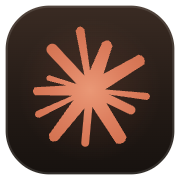
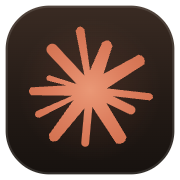
APP 2.4.153：星形动画方向与 3/9 点调整
- 9 点 L6 只外伸、9 点上 P11 只内缩
- 3 点 P7 加长 5% 并加宽中心，9 点 L6 加长 7%
- 图标与手机页同步，ASSET_VERSION 156
- 更新清单 2.4.153（精简包）

diff --git a/overlay/claude-gui/public/m.js b/overlay/claude-gui/public/m.js
@@ -2694,7 +2694,7 @@
   }
 
   // 过程条前的星形头像：和客户端消息头像同一颗星，运行中单独做动画。
-  const PROCESS_STAR_SVG = '<svg class="spark" viewBox="28 28 200 200"><g class="spark-spin"><g transform="rotate(5.0 128 128)"><g stroke="url(#sparkGrad)" stroke-linecap="round"><g class="spark-ray" style="--sray-dur:2.9156s;--sray-delay:-0.2221s;--sray-min:1.2080;--sray-ang:21.00deg"><line x1="128" y1="128" x2="188.43" y2="151.19" stroke-width="12.83"/></g><g class="spark-ray" style="--sray-dur:3.3325s;--sray-delay:-1.7115s;--sray-min:1.0780;--sray-ang:90.21deg;--sray-wide:1.0700"><line x1="128" y1="128" x2="127.72" y2="203.44" stroke-width="11.24"/></g><g class="spark-ray" style="--sray-dur:2.0014s;--sray-delay:-0.5206s;--sray-min:0.9090;--sray-ang:222.02deg;--sray-wide:1.0700"><line x1="128" y1="128" x2="69.54" y2="75.34" stroke-width="16.54"/></g></g><g class="spark-ray" style="--sray-dur:2.5461s;--sray-delay:-2.0861s;--sray-min:1.0260;--sray-ang:-74.22deg;--sray-wide:1.0700"><path d="M 138.78 131.05 L 154.43 62.80 Q 149.89 50.48 139.58 58.60 L 117.22 124.95 Z" fill="url(#sparkGrad)"/></g><g class="spark-ray" style="--sray-dur:3.4067s;--sray-delay:-2.2289s;--sray-min:0.8241;--sray-ang:-35.62deg"><path d="M 134.42 136.96 L 201.99 84.67 Q 203.80 73.69 192.82 71.88 L 121.58 119.04 Z" fill="url(#sparkGrad)"/></g><g class="spark-ray" style="--sray-dur:2.2174s;--sray-delay:-0.7170s;--sray-min:1.1200;--sray-ang:1.50deg;--sray-wide:1.0700"><path d="M 127.94 130.56 L 210.05 135.20 Q 217.75 130.35 210.30 125.10 L 128.06 125.44 Z" fill="url(#sparkGrad)"/></g><g class="spark-ray" style="--sray-dur:3.4198s;--sray-delay:-2.5302s;--sray-min:0.8310;--sray-ang:52.93deg"><path d="M 119.64 134.32 L 171.90 200.59 Q 184.12 202.29 185.83 190.06 L 136.36 121.68 Z" fill="url(#sparkGrad)"/></g><g class="spark-ray" style="--sray-dur:3.2329s;--sray-delay:-1.3367s;--sray-min:0.8960;--sray-ang:122.69deg;--sray-wide:1.0700"><path d="M 118.90 122.16 L 75.48 196.13 Q 75.71 209.48 87.94 204.13 L 137.10 133.84 Z" fill="url(#sparkGrad)"/></g><g class="spark-ray" style="--sray-dur:4.1229s;--sray-delay:-0.6627s;--sray-min:0.7895;--sray-ang:149.85deg"><path d="M 126.71 125.79 L 54.28 164.95 Q 50.24 173.15 59.37 173.72 L 129.29 130.21 Z" fill="url(#sparkGrad)"/></g><g class="spark-ray" style="--sray-dur:2.5755s;--sray-delay:-1.4845s;--sray-min:1.0780;--sray-ang:173.74deg;--sray-wide:1.0700"><path d="M 127.08 119.62 L 49.47 130.96 Q 44.50 137.16 50.70 142.13 L 128.92 136.38 Z" fill="url(#sparkGrad)"/></g><g class="spark-ray" style="--sray-dur:3.4158s;--sray-delay:-3.3684s;--sray-min:1.2340;--sray-ang:191.24deg;--sray-wide:1.1200"><path d="M 128.40 125.98 L 68.24 111.98 Q 61.85 114.84 66.66 119.93 L 127.60 130.02 Z" fill="url(#sparkGrad)"/></g><g class="spark-ray" style="--sray-dur:2.6686s;--sray-delay:-2.4796s;--sray-min:0.8000;--sray-ang:255.56deg;--sray-wide:1.0700"><path d="M 131.67 127.05 L 112.46 42.32 Q 103.98 34.73 100.24 45.46 L 124.33 128.95 Z" fill="url(#sparkGrad)"/></g><circle cx="128" cy="128" r="10" fill="url(#sparkGrad)"/></g></g></svg>';
+  const PROCESS_STAR_SVG = '<svg class="spark" viewBox="28 28 200 200"><g class="spark-spin"><g transform="rotate(5.0 128 128)"><g stroke="url(#sparkGrad)" stroke-linecap="round"><g class="spark-ray" style="--sray-dur:2.9156s;--sray-delay:-0.2221s;--sray-min:1.2080;--sray-ang:21.00deg"><line x1="128" y1="128" x2="188.43" y2="151.19" stroke-width="12.83"/></g><g class="spark-ray" style="--sray-dur:3.3325s;--sray-delay:-1.7115s;--sray-min:1.0780;--sray-ang:90.21deg;--sray-wide:1.0700"><line x1="128" y1="128" x2="127.72" y2="203.44" stroke-width="11.24"/></g><g class="spark-ray" style="--sray-dur:2.0014s;--sray-delay:-0.5206s;--sray-min:0.9090;--sray-ang:222.02deg;--sray-wide:1.0700"><line x1="128" y1="128" x2="69.54" y2="75.34" stroke-width="16.54"/></g></g><g class="spark-ray" style="--sray-dur:2.5461s;--sray-delay:-2.0861s;--sray-min:1.0260;--sray-ang:-74.22deg;--sray-wide:1.0700"><path d="M 138.78 131.05 L 154.43 62.80 Q 149.89 50.48 139.58 58.60 L 117.22 124.95 Z" fill="url(#sparkGrad)"/></g><g class="spark-ray" style="--sray-dur:3.4067s;--sray-delay:-2.2289s;--sray-min:0.8241;--sray-ang:-35.62deg"><path d="M 134.42 136.96 L 201.99 84.67 Q 203.80 73.69 192.82 71.88 L 121.58 119.04 Z" fill="url(#sparkGrad)"/></g><g class="spark-ray" style="--sray-dur:2.2174s;--sray-delay:-0.7170s;--sray-min:1.1000;--sray-ang:1.50deg;--sray-wide:1.0700"><path d="M 127.88 133.05 L 214.16 135.31 Q 222.24 130.47 214.41 125.21 L 128.12 122.95 Z" fill="url(#sparkGrad)"/></g><g class="spark-ray" style="--sray-dur:3.4198s;--sray-delay:-2.5302s;--sray-min:0.8310;--sray-ang:52.93deg"><path d="M 119.64 134.32 L 171.90 200.59 Q 184.12 202.29 185.83 190.06 L 136.36 121.68 Z" fill="url(#sparkGrad)"/></g><g class="spark-ray" style="--sray-dur:3.2329s;--sray-delay:-1.3367s;--sray-min:0.8960;--sray-ang:122.69deg;--sray-wide:1.0700"><path d="M 118.90 122.16 L 75.48 196.13 Q 75.71 209.48 87.94 204.13 L 137.10 133.84 Z" fill="url(#sparkGrad)"/></g><g class="spark-ray" style="--sray-dur:4.1229s;--sray-delay:-0.6627s;--sray-min:0.7895;--sray-ang:149.85deg"><path d="M 126.71 125.79 L 54.28 164.95 Q 50.24 173.15 59.37 173.72 L 129.29 130.21 Z" fill="url(#sparkGrad)"/></g><g class="spark-ray" style="--sray-dur:3.4158s;--sray-delay:-3.3684s;--sray-min:1.0780;--sray-ang:173.74deg;--sray-wide:1.0700"><path d="M 127.08 119.62 L 44.02 131.56 Q 38.65 137.80 45.25 142.73 L 128.92 136.38 Z" fill="url(#sparkGrad)"/></g><g class="spark-ray" style="--sray-dur:3.4158s;--sray-delay:-3.3684s;--sray-min:0.7660;--sray-ang:191.24deg;--sray-wide:1.1200"><path d="M 128.40 125.98 L 68.24 111.98 Q 61.85 114.84 66.66 119.93 L 127.60 130.02 Z" fill="url(#sparkGrad)"/></g><g class="spark-ray" style="--sray-dur:2.6686s;--sray-delay:-2.4796s;--sray-min:0.8000;--sray-ang:255.56deg;--sray-wide:1.0700"><path d="M 131.67 127.05 L 112.46 42.32 Q 103.98 34.73 100.24 45.46 L 124.33 128.95 Z" fill="url(#sparkGrad)"/></g><circle cx="128" cy="128" r="10" fill="url(#sparkGrad)"/></g></g></svg>';
 
   function processRowNode(details, live) {
     const row = el('div', 'process-row' + (live ? ' live' : ''));

diff --git a/overlay/claude-gui/public/m.html b/overlay/claude-gui/public/m.html
@@ -12,10 +12,10 @@
 <meta name="apple-mobile-web-app-title" content="工作台">
 <meta name="format-detection" content="telephone=no">
 <link rel="manifest" href="/manifest.webmanifest">
-<link rel="apple-touch-icon" href="/icon-180.png?v=20261127b">
-<link rel="icon" href="/icon-192.png?v=20261127b" type="image/png">
+<link rel="apple-touch-icon" href="/icon-180.png?v=20261127h">
+<link rel="icon" href="/icon-192.png?v=20261127h" type="image/png">
 <title>Claude Code 工作台</title>
-<link rel="stylesheet" href="/m.css?v=20261127b">
+<link rel="stylesheet" href="/m.css?v=20261127h">
 </head>
 <body>
 <div id="app">
@@ -349,6 +349,6 @@
 </div>
 <script>window.__GUI_TOKEN__ = "__TOKEN__";</script>
 <script src="/ref-digest.js?v=20261112n"></script>
-<script src="/m.js?v=20261127b"></script>
+<script src="/m.js?v=20261127h"></script>
 </body>
 </html>

diff --git a/android/app/src/com/missyao/claudeworkbench/ProcessStarView.java b/android/app/src/com/missyao/claudeworkbench/ProcessStarView.java
@@ -62,13 +62,13 @@ public final class ProcessStarView extends View {
             new Ray(true, 69.54f, 75.34f, 16.54f, null, 222.02f, 2.001f, -0.521f, 0.9090f, 0.07f),
             new Ray(false, 0, 0, 0, taperL1(), -35.62f, 3.407f, -2.229f, 0.8241f, 0.15f),
             new Ray(false, 0, 0, 0, taperL3(), 52.93f, 3.420f, -2.530f, 0.8310f, 0.15f),
-            new Ray(false, 0, 0, 0, taperL6(), 173.74f, 2.576f, -1.484f, 1.0780f, 0.07f),
+            new Ray(false, 0, 0, 0, taperL6(), 173.74f, 3.416f, -3.368f, 1.0780f, 0.07f),
             new Ray(false, 0, 0, 0, petal6(), -74.22f, 2.546f, -2.086f, 1.0260f, 0.07f),
-            new Ray(false, 0, 0, 0, petal7(), 1.50f, 2.217f, -0.717f, 1.1200f, 0.07f),
+            new Ray(false, 0, 0, 0, petal7(), 1.50f, 2.217f, -0.717f, 1.1000f, 0.07f),
             new Ray(false, 0, 0, 0, petal8(), 122.69f, 3.233f, -1.337f, 0.8960f, 0.07f),
             new Ray(false, 0, 0, 0, petal9(), 149.85f, 4.123f, -0.663f, 0.7895f, 0.15f),
             new Ray(false, 0, 0, 0, petal10(), 255.56f, 2.669f, -2.480f, 0.8000f, 0.07f),
-            new Ray(false, 0, 0, 0, petal11(), 191.24f, 3.416f, -3.368f, 1.2340f, 0.12f),
+            new Ray(false, 0, 0, 0, petal11(), 191.24f, 3.416f, -3.368f, 0.7660f, 0.12f),
     };
 
     private final Paint strokePaint = new Paint(Paint.ANTI_ALIAS_FLAG);
@@ -213,8 +213,8 @@ public final class ProcessStarView extends View {
     private static Path taperL6() {
         Path p = new Path();
         p.moveTo(127.08f, 119.62f);
-        p.lineTo(49.47f, 130.96f);
-        p.quadTo(44.50f, 137.16f, 50.70f, 142.13f);
+        p.lineTo(44.02f, 131.56f);
+        p.quadTo(38.65f, 137.80f, 45.25f, 142.73f);
         p.lineTo(128.92f, 136.38f);
         p.close();
         return p;
@@ -232,10 +232,10 @@ public final class ProcessStarView extends View {
 
     private static Path petal7() {
         Path p = new Path();
-        p.moveTo(127.94f, 130.56f);
-        p.lineTo(210.05f, 135.20f);
-        p.quadTo(217.75f, 130.35f, 210.30f, 125.10f);
-        p.lineTo(128.06f, 125.44f);
+        p.moveTo(127.88f, 133.05f);
+        p.lineTo(214.16f, 135.31f);
+        p.quadTo(222.24f, 130.47f, 214.41f, 125.21f);
+        p.lineTo(128.12f, 122.95f);
         p.close();
         return p;
     }

diff --git a/android/app/src/com/missyao/claudeworkbench/LocalEngine.java b/android/app/src/com/missyao/claudeworkbench/LocalEngine.java
@@ -54,7 +54,7 @@ public final class LocalEngine {
                     + ALPINE_VERSION + "-aarch64.tar.gz"
     };
     private static final int SERVER_PORT = 4712;
-    private static final int ASSET_VERSION = 152;
+    private static final int ASSET_VERSION = 156;
     private static final String GCS_BASE =
             "https://storage.googleapis.com/claude-code-dist-86c565f3-f756-42ad-8dfa-d59b1c096819/claude-code-releases";
     private static final String FALLBACK_CLAUDE_VERSION = "2.1.319";
